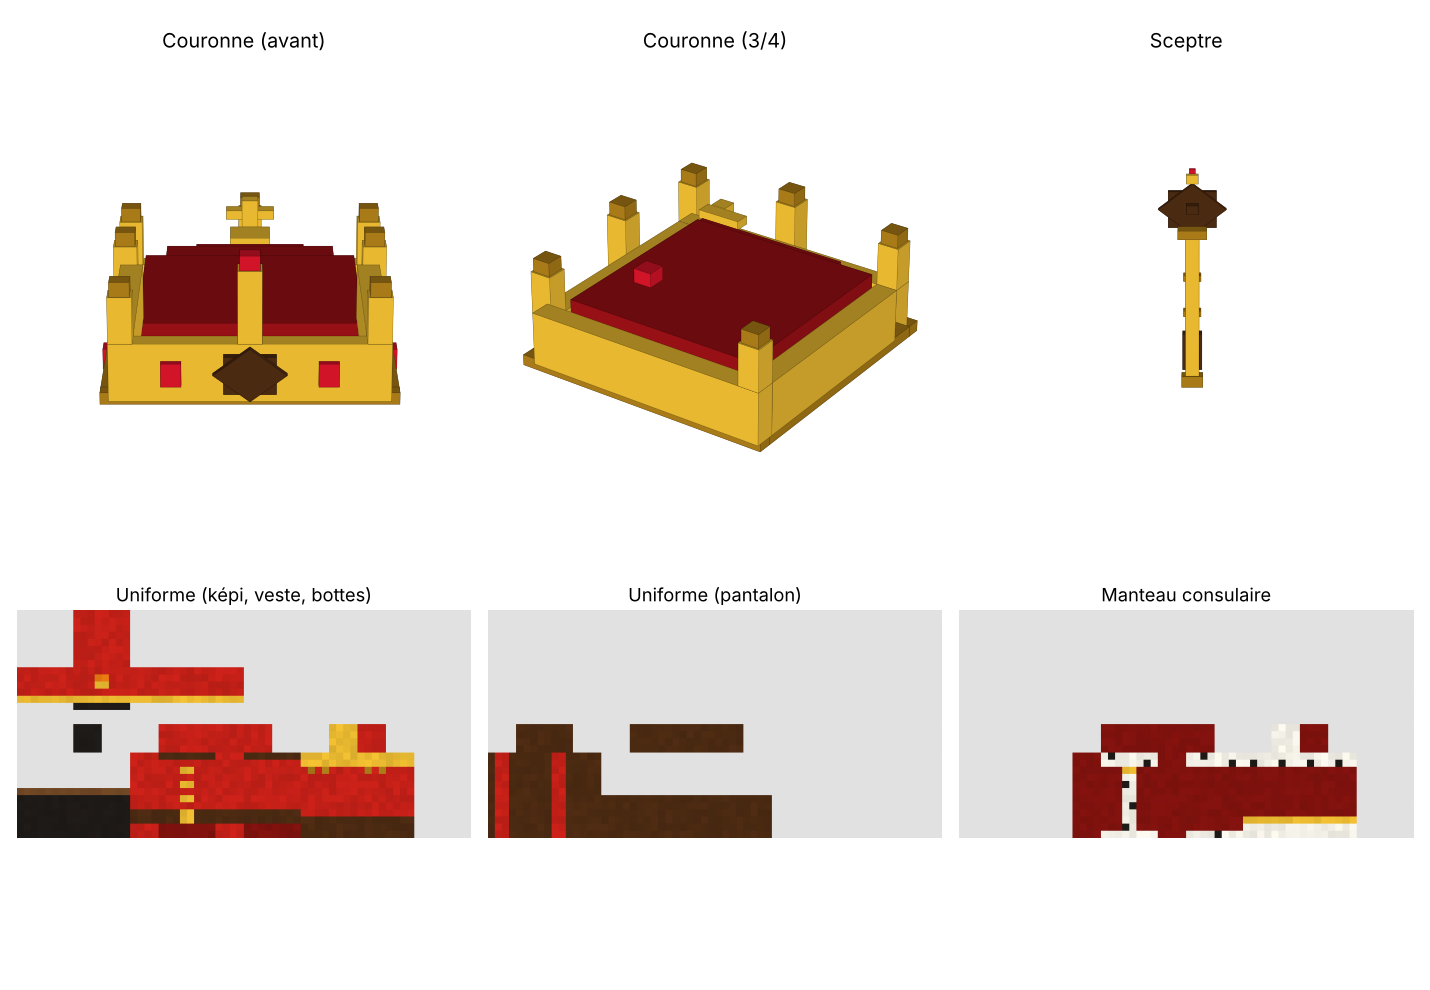
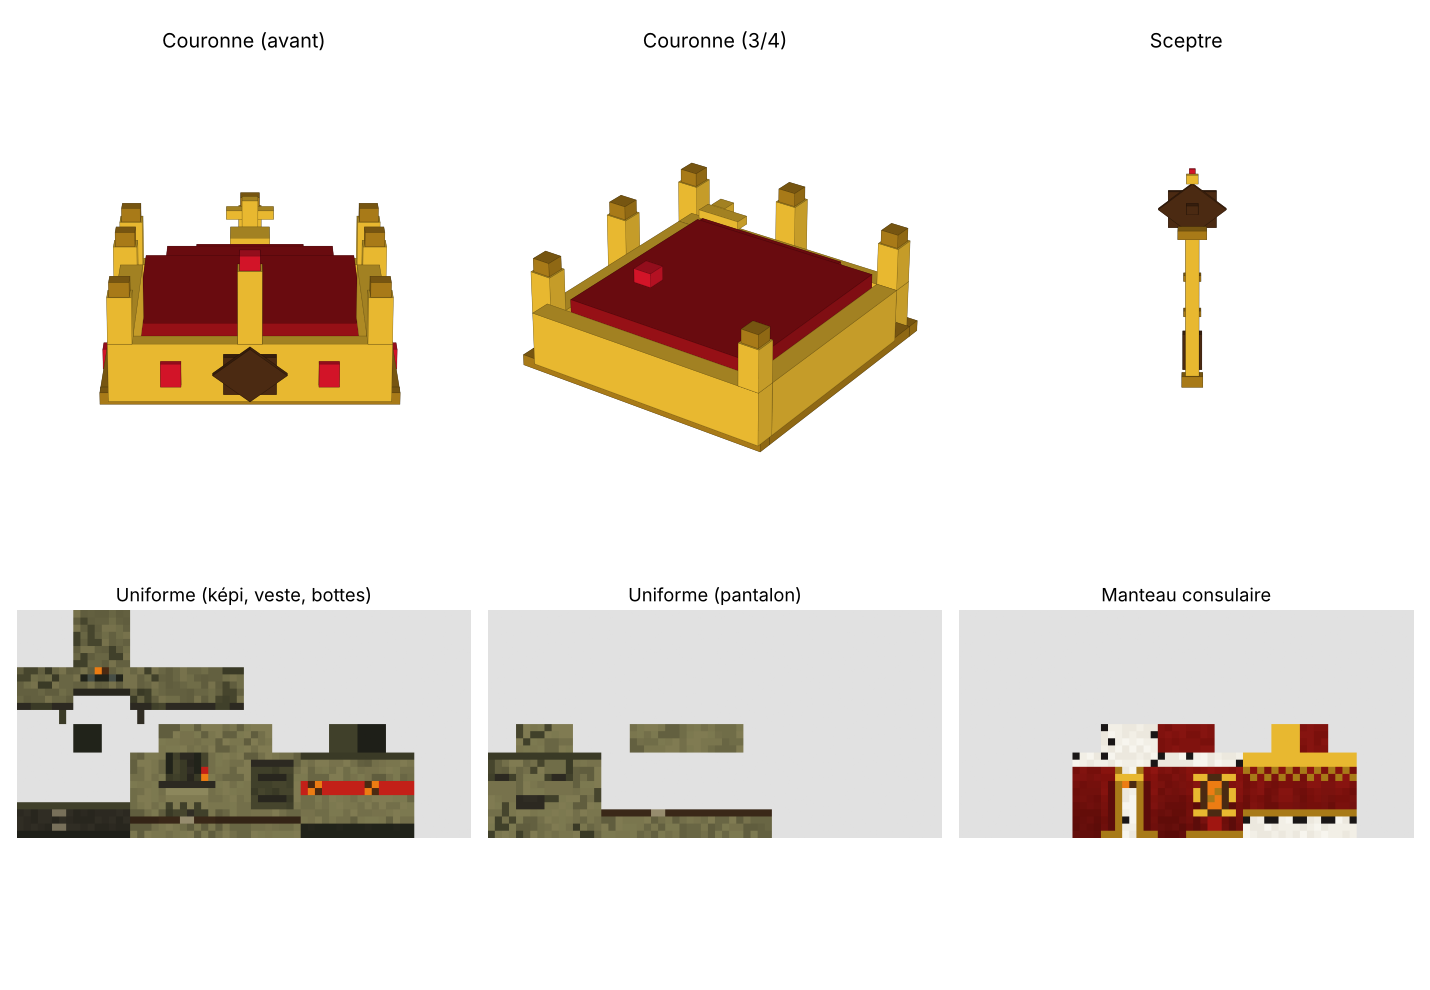
Tenues détaillées : uniforme tactique olive, manteau en volume avec pans
- Uniforme de la Garde inspiré d'une tenue militaire moderne : casque à lunettes,
  gilet tactique à poches, brassard rouge à l'engrenage, treillis camouflé, bottes lacées
- Le képi devient un casque (wozorfoz:casque)
- Manteau consulaire : ombrage et plis pour le volume, hermine mouchetée, galons et
  épaulettes dorés, engrenage brodé dans le dos
- Nouvel objet « Pans du Manteau » (jambes) pour un manteau long

Claude-Session: https://claude.ai/code/session_01Djew7UjkaGHLAGYew4iugk

diff --git a/README.md b/README.md
@@ -2,7 +2,9 @@
 
 Resource pack serveur (Minecraft Java 1.21.9) : objets cérémoniels et uniforme de la Garde.
 
-![Aperçu](apercu.png)
+![Aperçu des objets](apercu.png)
+
+![Aperçu des tenues](apercu_tenues.png)
 
 ## Contenu
 
@@ -10,8 +12,8 @@ Resource pack serveur (Minecraft Java 1.21.9) : objets cérémoniels et uniforme
 | --- | --- | --- |
 | Couronne Consulaire | 3D (`wozorfoz:couronne`) | Tête |
 | Sceptre Consulaire | 3D (`wozorfoz:sceptre`) | Main |
-| Manteau Consulaire | Texture d'équipement (`wozorfoz:manteau`) | Torse |
-| Uniforme de la Garde : képi, veste, pantalon, bottes | Texture d'équipement (`wozorfoz:uniforme`) | Tête, torse, jambes, pieds |
+| Manteau Consulaire : haut et pans | Texture d'équipement (`wozorfoz:manteau`) : velours ombré, plis, hermine, broderie de l'engrenage dans le dos | Torse, jambes |
+| Uniforme de la Garde : casque, gilet tactique, treillis, bottes | Texture d'équipement (`wozorfoz:uniforme`) : camouflage olive, poches, brassard impérial | Tête, torse, jambes, pieds |
 
 Les objets se donnent avec le datapack `wz_drapeau` :
 `/function wz_drapeau:objets_consulaires` et `/function wz_drapeau:objets_uniforme`.
